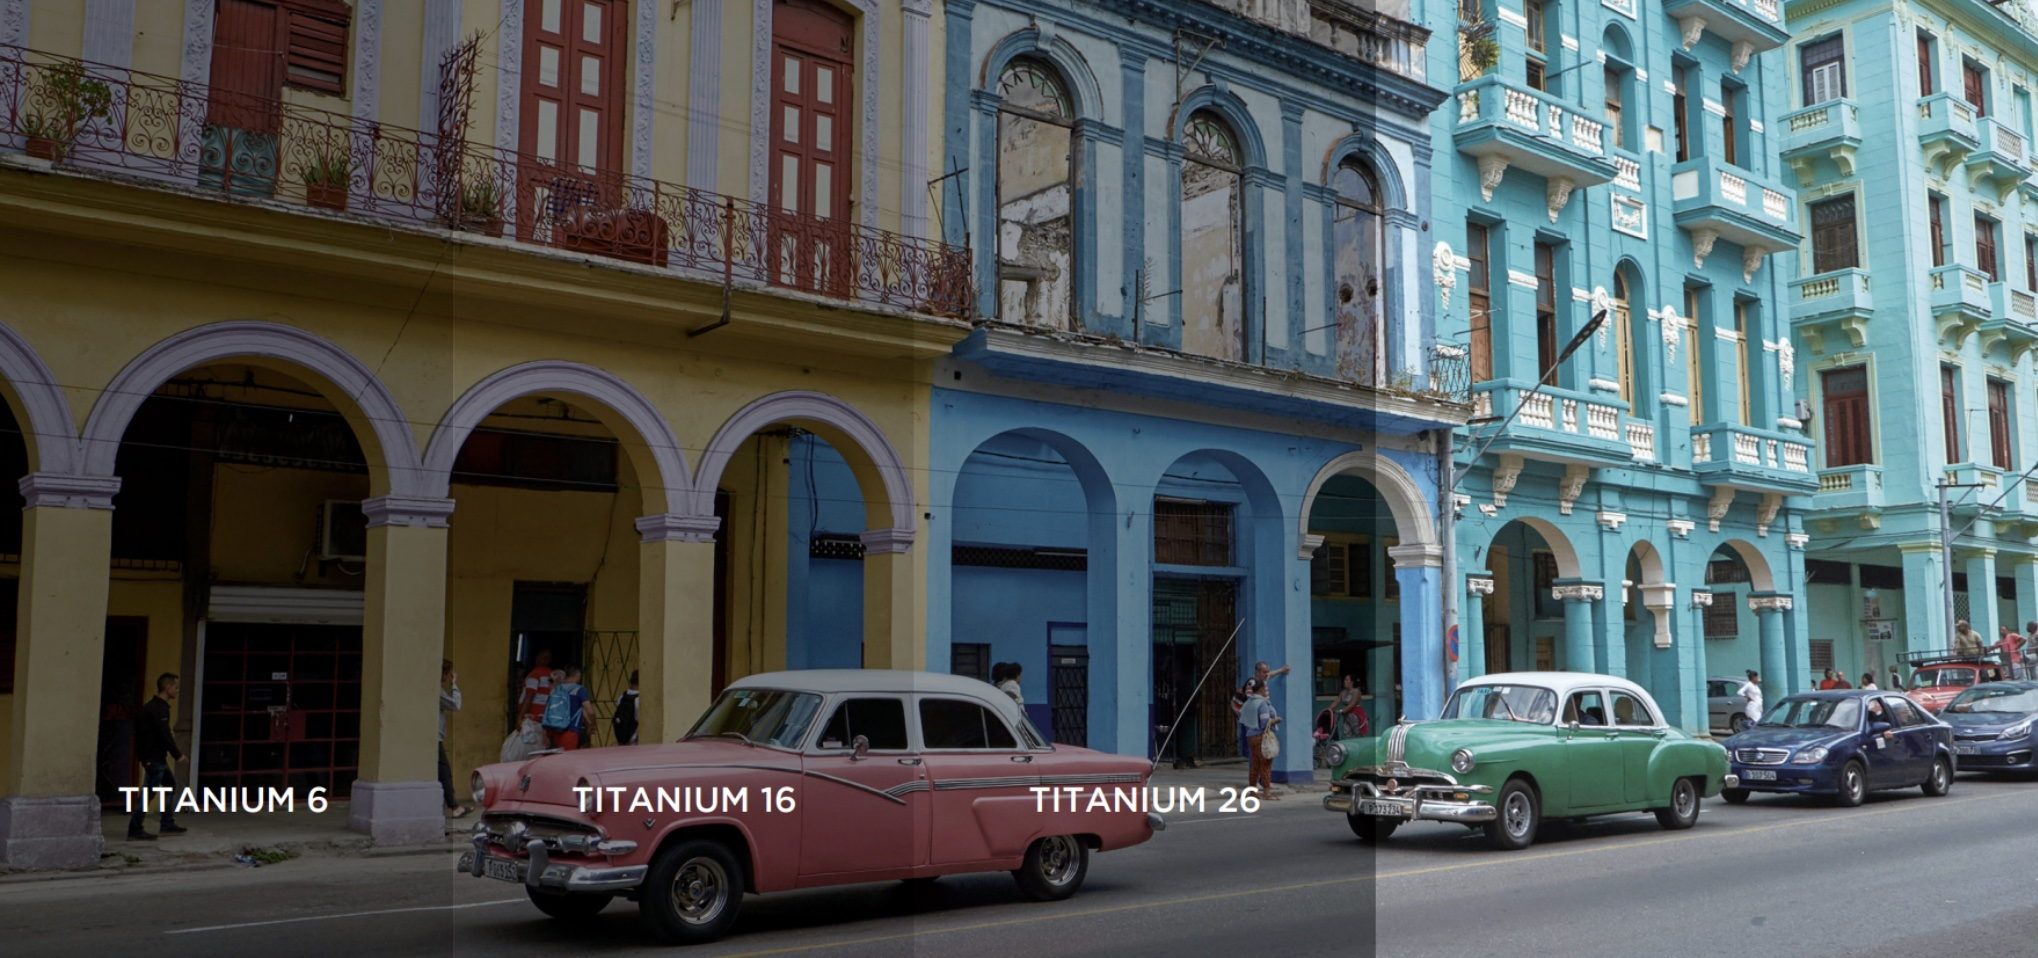
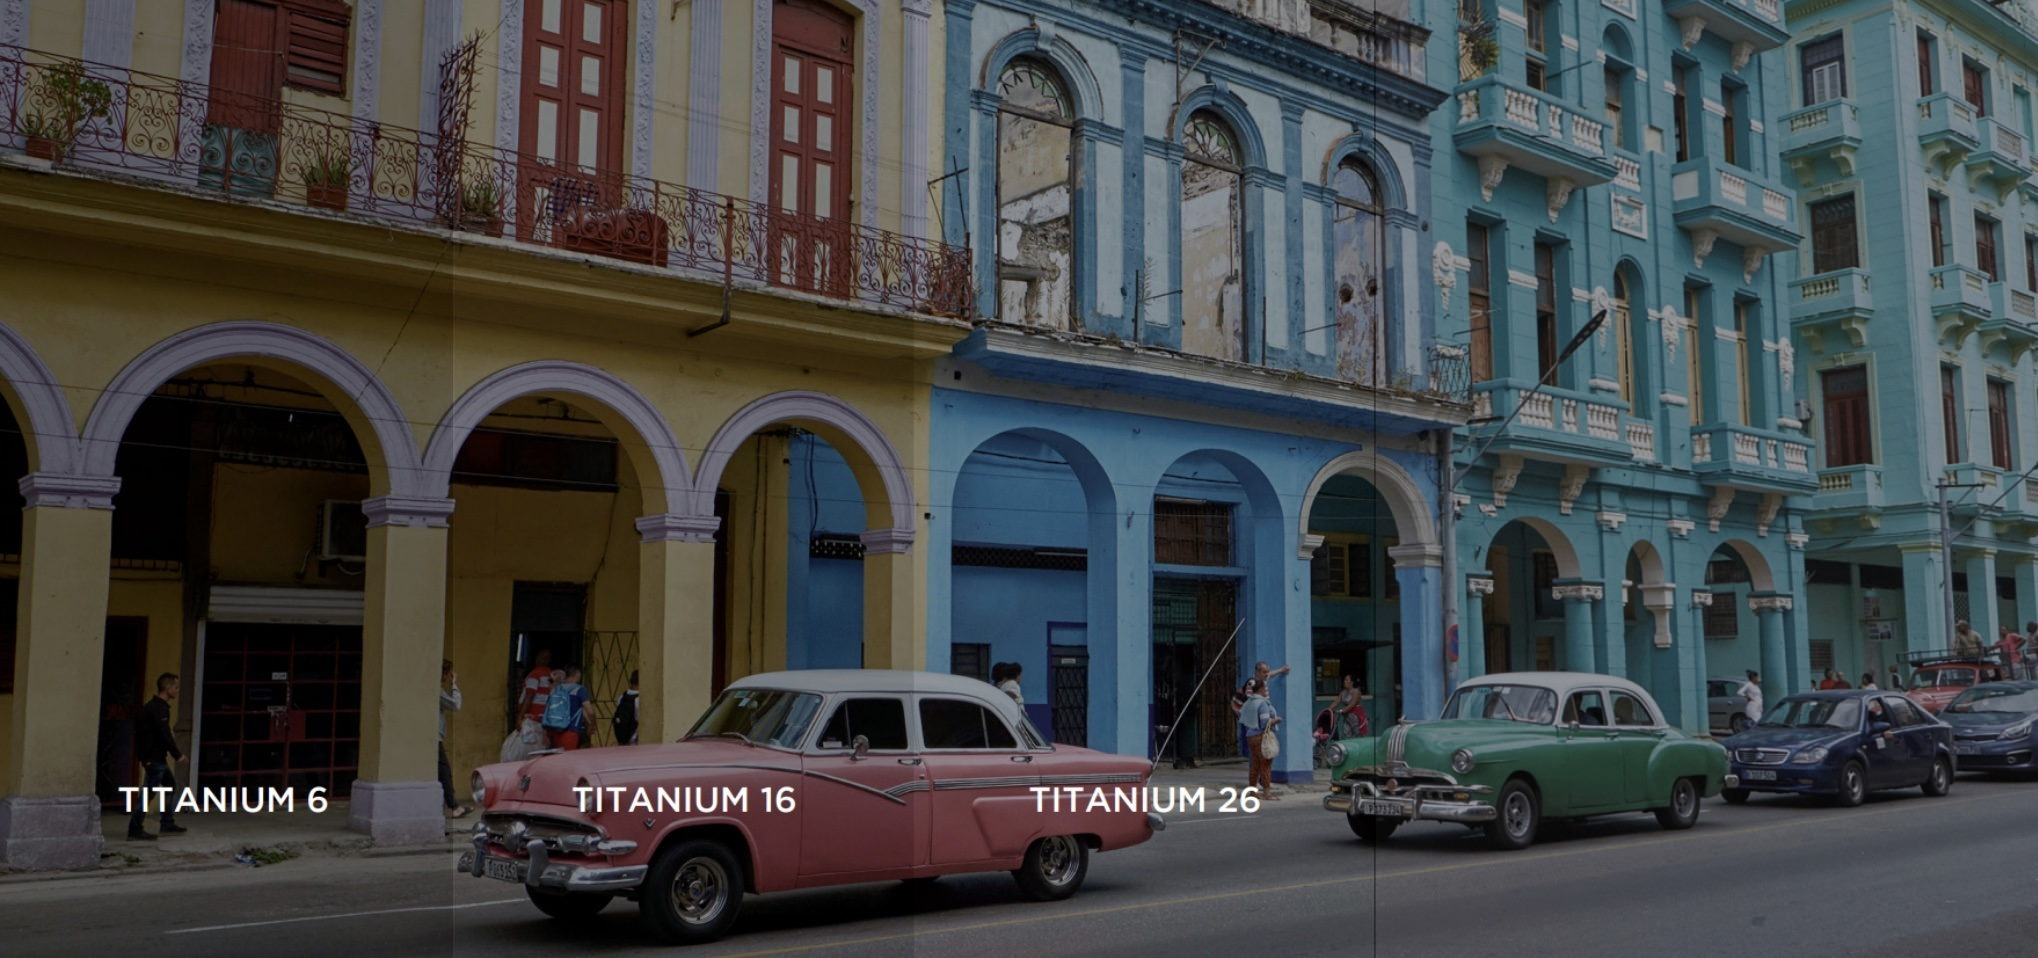
Titanium 비교컷 v2 — 26 틴트를 그림 끝까지 연장 (사용자 요청 '필름이 끝까지 덮여야'). 원인=본사 원본에 맨유리 구간이 박혀 있던 구성(LX는 70이 끝까지라 달랐음). 틴트 연장=경계 실측 s≈0.60 적용+페더링, 밴드 3개로 재구성(453/913/끝), base v2 동기, src ?v=2 캐시 무효화

diff --git a/index.html b/index.html
@@ -3372,7 +3372,7 @@ body.pd-open { overflow: hidden; }
 
       <!-- Titanium -->
       <div class="product-panel has-scene" id="panel-titanium">
-        <div class="product-image"><img src="titanium-vlt-scene.jpg" alt="Titanium 농도별 발색 비교 — 딥 블랙 발색" width="2038" height="958" loading="lazy" decoding="async"></div>
+        <div class="product-image"><img src="titanium-vlt-scene.jpg?v=2" alt="Titanium 농도별 발색 비교 — 딥 블랙 발색" width="2038" height="958" loading="lazy" decoding="async"></div>
         <div>
           <span class="product-category">Intelligent &amp; Unique</span>
           <h3 class="product-name">Titanium</h3>
@@ -4533,7 +4533,7 @@ if (prodSec) prodIO.observe(prodSec);
     'vogue-vlt-scene-2.jpg':  { base: 'vogue-vlt-scene-2-base.jpg', w: 2040, edges: [0, 360, 729, 1099, 1468, 2040] },
     'xenith-vlt-scene.jpg':   { base: 'xenith-vlt-scene-base.jpg', w: 2036, edges: [0, 608, 1221, 2036] },
     'quantum-vlt-scene-4.jpg':{ base: 'quantum-vlt-scene-4-base.jpg', w: 2030, edges: [0, 239, 504, 769, 1031, 1295, 1560, 2030] },
-    'titanium-vlt-scene.jpg': { base: 'titanium-vlt-scene-base.jpg', w: 2038, edges: [0, 453, 913, 1374, 2038] },
+    'titanium-vlt-scene.jpg?v=2': { base: 'titanium-vlt-scene-base.jpg?v=2', w: 2038, edges: [0, 453, 913, 2038] }, /* 26 틴트를 끝까지 연장한 v2 컷 (2026-08-13) */
     'gline-vlt-scene.jpg':    { base: 'gline-vlt-scene-base.jpg', w: 2020, edges: [0, 540, 1094, 2020] },
     'sline-vlt-scene.jpg':    { base: 'sline-vlt-scene-base.jpg', w: 2032, edges: [0, 546, 1099, 2032] },
     'galaxie-vlt-scene.jpg':  { base: 'galaxie-vlt-scene-base.jpg', w: 2028, edges: [0, 449, 911, 1373, 2028] },
